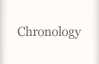
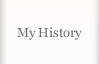
From template
git-svn-id: https://svn.java.net/svn/docsources~svn/trunk@876 3b25252b-017b-4ae5-8f61-fa87a855a72e

Changed region(s): [[0.1515, 0.4062, 0.8485, 0.625]]

diff --git a/DocSources/WebContent/styles/1024/MyHistory.css b/DocSources/WebContent/styles/1024/MyHistory.css
@@ -5,57 +5,50 @@
  * Copyright (c) 2011 MAP
  *
  *
- * This style sheet contains all id and tag from the CHRONOLOGY
+ * This style sheet contains all id and tag from MY HISTORY
  */
 
-.Chronology { /* Chronology Content Div */
-	width:700px;
-	height:500px;
-	border:none;
-	margin:10px auto 0 auto;
 
+#MyHistoryDiv { /* Chronology Content Div */
+	width:702px;
+	height:400px;
+	margin:10px auto 0 15px;
 }
 
-#Chronology { /* Chronology Content Div */
-	width:700px;
-	height:500px;
-	margin:10px auto 0 40px;
-}
-
-#DocsChronology { /* Documents Chronology Div */
-	width:260px;
-	height:230px;
-	position:absolute;
-	color:#6F6B69;
-	padding:10px;
-}
-
-#PeopleChronology { /* People Chronology Div */
+#DocsHistory { /* Documents Chronology Div */
 	width:250px;
-	height:230px;
-	position:absolute;
-	margin-left:350px;
+	height:150px;
+	float:left;
 	color:#6F6B69;
-	padding:10px;
+	padding:10px 50px 40px 50px;
+	border-right:1px solid #EAD9D6;
+	border-bottom:1px solid #EAD9D6;
 }
 
-#VolumesChronology { /* Volumes Chronology Div */
+#PeopleHistory { /* People Chronology Div */
 	width:250px;
-	height:230px;
-	position:absolute;
-	margin-top:250px;
+	height:150px;
+	float:right;
 	color:#6F6B69;
-	padding:10px;
+	padding:10px 50px 40px 50px;
+	border-bottom:1px solid #EAD9D6;
 }
 
-#PlaceChronology { /* Place Chronology Div */
+#VolumesHistory { /* Volumes Chronology Div */
 	width:250px;
-	height:230px;
-	position:absolute;
-	margin-top:250px;
-	margin-left:350px;
+	height:150px;
+	float:left;
 	color:#6F6B69;
-	padding:10px;
+	padding:10px 50px 40px 50px;
+	border-right:1px solid #EAD9D6;
+}
+
+#PlaceHistory { /* Place Chronology Div */
+	width:250px;
+	height:150px;
+	float:right;
+	color:#6F6B69;
+	padding:10px 50px 40px 50px;
 }
 
 #DocsImg, #PeopleImg, #VolumesImg, #PlaceImg {
@@ -64,40 +57,54 @@
 	height:50px;
 }
 
-#DocsChronology ul, #PeopleChronology ul, #VolumesChronology ul, #PlaceChronology ul, #MoreDocsCronology ul { /* Chronology's List */
+#DocsHistory ul, #PeopleHistory ul, #VolumesHistory ul, #PlaceHistory ul, #MoreDocsCronology ul { /* Chronology's List */
 	list-style:none;
-	font-size:12px;
+	font-size:11px;
 	text-align:justify;
 }
 
-#DocsChronology li, #PeopleChronology li, #VolumesChronology li, #PlaceChronology li, #MoreDocsCronology li { /* Chronology's List */
+#DocsHistory li, #PeopleHistory li, #VolumesHistory li, #PlaceHistory li, #MoreDocsCronology li { /* Chronology's List */
 	line-height:22px;
 }
 
-#Chronology h1 { /* Chronology Titles */
+#MyHistoryDiv h1 { /* Chronology Titles */
 	text-align:center;
 	font-size:11px;
 	font-weight:bold;
 	color:#6d5c4d;
+	margin-bottom:10px;
 }
 
-#Chronology h2 { /* Chronology Titles */
+#MyHistoryDiv h2 { /* Chronology Titles */
 	text-align:center;
 	font-size:11px;
 	font-weight:bold;
 	color:#6d5c4d;
-	margin:-20px auto 20px auto;
+	margin:0 auto 20px auto;
 }
 
-#Chronology a, #MoreDocsChronology a, #MorePlaceChronology a, #MoreVolChronology a, #MorePeopleChronology a{
-	font-size:11px;
+#MyHistoryDiv a {
+	font-size:12px;
 	color:#6d5c4d;
+	text-decoration:none;
 	float:right;
+}
+
+#MyHistoryDiv a:hover {
 	text-decoration:underline;
 }
 
-#Chronology #close{
-	margin:520px 0 0 300px;
+#moreDocs, #morePeople, #moreVolumes, #morePlaces {
+	margin:10px 0 0 0;
+	padding-bottom:10px;
+	background:url(/DocSources/images/1024/button_more.png) no-repeat;
+	float:right;
+	width:45px;
+	height:23px;
+}
+
+#MyHistoryDiv #close {
+	margin:20px 0 0 325px;
 }
 
 /* ------------- Specific Chronology Window --------------- */

diff --git a/DocSources/WebContent/styles/1024/MainContent.css b/DocSources/WebContent/styles/1024/MainContent.css
@@ -2742,8 +2742,8 @@ a.refreshVolumeExplorer {
 }
 
 #advancedSearchModal a:hover{ /* On Rollover transparency effect */
-	opacity:0.5; /* FireFox, Chrome, Safari */
-	-moz-opacity: 0.5;
+	opacity:0.5; /* Chrome, Safari */
+	-moz-opacity: 0.5; /* Firefox */
 	filter:alpha(opacity=0); /* IE */
 }
 
@@ -2827,8 +2827,8 @@ a.refreshVolumeExplorer {
 	border: 1px solid #2e83ff;
 	background-color: #ebf3ff; 
 	padding:3px 5px 3px 5px;
-	opacity:0.9; /* FireFox, Chrome, Safari */
-	-moz-opacity: 0.9;
+	opacity:0.9; /* Chrome, Safari */
+	-moz-opacity: 0.9;/* FireFox */
 	filter:alpha(opacity=90); /* IE */
 	-moz-border-radius: 4px;
 	border-radius: 4px;
@@ -2865,8 +2865,8 @@ a.refreshVolumeExplorer {
 	border: 1px solid #2e83ff;
 	color:  #363636; 
 	background-color: #ebf3ff; 
-	opacity:0.9; /* FireFox, Chrome, Safari */
-	-moz-opacity: 0.9;
+	opacity:0.9; /* Chrome, Safari */
+	-moz-opacity: 0.9; /* FireFox */
 	filter:alpha(opacity=90); /* IE */
 }
 
@@ -2886,7 +2886,7 @@ a.refreshVolumeExplorer {
 	margin:0 0 0 40px;
 }
 
-#advancedSearch #body_right .easySearchModeOn {
+#advancedSearch #body_right .easySearchModeOn { /* Easy Search mode ACTIVE */
 	margin:25px 0 0 50px;
 	background:url(/DocSources/images/1024/button_easySearchMode_on.png) no-repeat;
 	width:160px;
@@ -2895,7 +2895,7 @@ a.refreshVolumeExplorer {
 	position:absolute;
 }
 
-#advancedSearch #body_right .expertSearchModeOn {
+#advancedSearch #body_right .expertSearchModeOn { /* Expert Search mode ACTIVE */
 	margin:25px 0 0 250px;
 	background:url(/DocSources/images/1024/button_expertSearchMode_on.png) no-repeat;
 	width:160px;
@@ -2904,7 +2904,7 @@ a.refreshVolumeExplorer {
 	position:absolute;
 }
 
-#advancedSearch #body_right .easySearchModeOff {
+#advancedSearch #body_right .easySearchModeOff { /* Easy Search mode OFF */
 	margin:25px 0 0 50px;
 	background:url(/DocSources/images/1024/button_easySearchMode_off.png) no-repeat;
 	width:160px;
@@ -2913,7 +2913,7 @@ a.refreshVolumeExplorer {
 	position:absolute;
 }
 
-#advancedSearch #body_right .expertSearchModeOff {
+#advancedSearch #body_right .expertSearchModeOff { /* Easy Search mode OFF */
 	margin:25px 0 0 250px;
 	background:url(/DocSources/images/1024/button_expertSearchMode_off.png) no-repeat;
 	width:160px;
@@ -2923,8 +2923,8 @@ a.refreshVolumeExplorer {
 }
 
 #advancedSearch #body_right .expertSearchModeOn:hover, #advancedSearch #body_right .easySearchModeOn:hover {
-	opacity:0.5; /* FireFox, Chrome, Safari */
-	-moz-opacity: 0.5;
+	opacity:0.5; /* Chrome, Safari */
+	-moz-opacity: 0.5; /* FireFox */
 	filter:alpha(opacity=50); /* IE */
 }
 

diff --git a/DocSources/WebContent/styles/1024/js/jquery.autocomplete2.css b/DocSources/WebContent/styles/1024/js/jquery.autocomplete2.css
@@ -1,17 +1,18 @@
 .autocomplete-w1 { 
 	background:url(img/shadow.png) no-repeat bottom right; 
 	position:absolute; 
-	top:0px; left:0px; 
+	top: -1px; 
+	left:0px; 
 	margin:8px 0 0 6px; /* IE6 fix: */ 
 	_background:none; 
 	_margin:0;
 	font-family:Georgia, "Times New Roman", Times, serif;
-	font-size:85%;
+	font-size:11px;
 }
 
 .autocomplete { 
-	border:1px solid #d6cec2; 
-	background:#faf2e7; 
+	border:1px solid #DCC0BA; 
+	background:#F2E6E5; 
 	cursor:default; 
 	text-align:left; 
 	max-height:350px; 
@@ -20,14 +21,17 @@
 	_height:350px;  
 	_margin:0; 
 	_overflow-x:hidden; 
+	-moz-border-radius: 4px;
+	border-radius: 4px;
+	border-top-left-radius:0px;
 }
 
 .autocomplete .selected { 
-	background:#fffdf6; 
+	background:#FBF7F4; 
 }
 
 .autocomplete div { 
-	padding:2px 5px; 
+	padding:5px; 
 	white-space:nowrap; 
 }
 

diff --git a/DocSources/WebContent/styles/1024/menu/MainMenu.css b/DocSources/WebContent/styles/1024/menu/MainMenu.css
@@ -59,7 +59,7 @@
 	background-image:url(/DocSources/images/1024/button_advsearchRollover.png);
 }
 
-#chronologyMenu{
+#myHistoryMenu{
 	background-image:url(/DocSources/images/1024/button_chronology.png);
 	background-repeat:no-repeat;
 	display:block;
@@ -67,11 +67,11 @@
 	height:64px;
 }
 
-.chronologyMenu{
+.myHistoryMenu{
 	margin-left:30px;
 }
 
-#chronologyMenu:hover{
+#myHistoryMenu:hover{
 	background-image:url(/DocSources/images/1024/button_chronologyRollover.png);
 }
 
